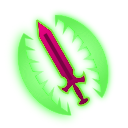
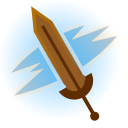
finished `Green-Flame Blade` and rebranded it as `Resonating Strike`

diff --git a/SolastaCommunityExpansion/Spells/EWSpells.cs b/SolastaCommunityExpansion/Spells/EWSpells.cs
@@ -1,4 +1,5 @@
 using System.Linq;
+using SolastaCommunityExpansion.Api.AdditionalExtensions;
 using SolastaCommunityExpansion.Builders;
 using SolastaCommunityExpansion.Builders.Features;
 using SolastaCommunityExpansion.CustomDefinitions;
@@ -140,7 +141,7 @@ namespace SolastaCommunityExpansion.Spells
                         dieType: RuleDefinitions.DieType.D8,
                         diceNumber: 0,
                         bonusDamage: 0,
-                        damageType: RuleDefinitions.DamageTypeFire
+                        damageType: RuleDefinitions.DamageTypeThunder
                     )
                     .Build()
                 )
@@ -157,7 +158,7 @@ namespace SolastaCommunityExpansion.Spells
                 .SetSomaticComponent(false)
                 .SetVerboseComponent(false)
                 .SetCustomSubFeatures(
-                    CustomSpellEffectLevel.ByCasterLevel,
+                    new BonusSlotLevelsByClassLevel(),
                     new UpgradeEffectFromLevel(flameHighLevel, 5)
                 )
                 .SetCastingTime(RuleDefinitions.ActivationTime.Action)
@@ -171,7 +172,7 @@ namespace SolastaCommunityExpansion.Spells
                             dieType: RuleDefinitions.DieType.D1,
                             diceNumber: 0,
                             bonusDamage: 0,
-                            damageType: RuleDefinitions.DamageTypeFire
+                            damageType: RuleDefinitions.DamageTypeThunder
                         )
                         .Build()
                     )
@@ -191,15 +192,15 @@ namespace SolastaCommunityExpansion.Spells
                 .SetCustomSubFeatures(
                     PerformAttackAfterMagicEffectUse.MeleeAttack,
                     CustomSpellEffectLevel.ByCasterLevel,
-                    new ChainSpell(flameLeap)
+                    new ChainSpellEffectOnAttackHit(flameLeap, "GreenFlameBlade")
                 )
                 .SetCastingTime(RuleDefinitions.ActivationTime.Action)
                 .SetEffectDescription(new EffectDescriptionBuilder()
                     .SetParticleEffectParameters(DatabaseHelper.SpellDefinitions.ScorchingRay)
                     .SetTargetingData(
                         RuleDefinitions.Side.Enemy,
-                        RuleDefinitions.RangeType.Touch,
-                        1,
+                        RuleDefinitions.RangeType.Distance,
+                        5,
                         RuleDefinitions.TargetType.IndividualsUnique,
                         2
                     )
@@ -239,7 +240,7 @@ namespace SolastaCommunityExpansion.Spells
                                         RuleDefinitions.DieType.D8,
                                         1,
                                         RuleDefinitions.AdditionalDamageType.Specific,
-                                        RuleDefinitions.DamageTypeFire,
+                                        RuleDefinitions.DamageTypeThunder,
                                         RuleDefinitions.AdditionalDamageAdvancement.SlotLevel,
                                         DiceByRankMaker.MakeBySteps(start: 0, step: 5, increment: 1)
                                     )
@@ -258,16 +259,20 @@ namespace SolastaCommunityExpansion.Spells
         }
     }
 
-    internal class ChainSpell : IChainMagicEffect
+    internal class ChainSpellEffectOnAttackHit : IChainMagicEffect
     {
-        public SpellDefinition spell;
+        private readonly SpellDefinition _spell;
+        private readonly string _notificationTag;
+        
 
-        public ChainSpell(SpellDefinition spell)
+        public ChainSpellEffectOnAttackHit(SpellDefinition spell, string notificationTag = null)
         {
-            this.spell = spell;
+            this._spell = spell;
+            this._notificationTag = notificationTag;
         }
 
-        public CharacterActionMagicEffect GetNextMagicEffect(CharacterActionMagicEffect baseEffect, CharacterActionAttack triggeredAttack)
+        public CharacterActionMagicEffect GetNextMagicEffect(CharacterActionMagicEffect baseEffect,
+            CharacterActionAttack triggeredAttack, RuleDefinitions.RollOutcome attackOutcome)
         {
             if (baseEffect == null) { return null; }
 
@@ -283,10 +288,11 @@ namespace SolastaCommunityExpansion.Spells
                 return null;
             }
 
-            var outcome = baseEffect.GetProperty<RuleDefinitions.RollOutcome>("Outcome");
-            //if (outcome < minOutcomeToAttack) { return null;}
-
-            //if (effect.SaveOutcome < minSaveOutcomeToAttack) { return null;}
+            if (attackOutcome != RuleDefinitions.RollOutcome.Success 
+                && attackOutcome == RuleDefinitions.RollOutcome.CriticalSuccess)
+            {
+                return null;
+            }
 
             var caster = actionParams.ActingCharacter;
             var targets = actionParams.TargetCharacters;
@@ -295,16 +301,40 @@ namespace SolastaCommunityExpansion.Spells
             
             var rulesetCaster = caster.RulesetCharacter;
             var rules = ServiceRepository.GetService<IRulesetImplementationService>();
-            var casterLevel = rulesetCaster.GetAttribute(AttributeDefinitions.CharacterLevel).CurrentValue;
+            var bonusLevelProvider = _spell.GetFirstSubFeatureOfType<IBonusSlotLevels>();
+            var slotLevel = _spell.SpellLevel;
+            if (bonusLevelProvider != null)
+            {
+                slotLevel += bonusLevelProvider.GetBonusSlotLevels(rulesetCaster);
+            }
 
-            var effectSpell = rules.InstantiateEffectSpell(rulesetCaster, repertoire, spell, casterLevel + 1, false);
+            var effectSpell = rules.InstantiateEffectSpell(rulesetCaster, repertoire, _spell, slotLevel, false);
 
             for (int i = 1; i < targets.Count; i++)
             {
-                effectSpell.ApplyEffectOnCharacter(targets[i].RulesetCharacter, true, targets[i].LocationPosition);
+                var rulesetTarget = targets[i].RulesetCharacter;
+                if (!string.IsNullOrEmpty(_notificationTag))
+                {
+                    GameConsoleHelper.LogCharacterAffectsTarget(rulesetCaster, rulesetTarget, _notificationTag, true);
+                }
+
+                effectSpell.ApplyEffectOnCharacter(rulesetTarget, true, targets[i].LocationPosition);
             }
 
             return null;
+        }
+    }
+
+    interface IBonusSlotLevels
+    {
+        public int GetBonusSlotLevels(RulesetCharacter caster);
+    }
+
+    class BonusSlotLevelsByClassLevel: IBonusSlotLevels
+    {
+        public int GetBonusSlotLevels(RulesetCharacter caster)
+        {
+            return caster.GetAttribute(AttributeDefinitions.CharacterLevel).CurrentValue;
         }
     }
 }

diff --git a/SolastaCommunityExpansion/Patches/CustomFeatures/CustomSpells/CharacterActionMagicEffectPatcher.cs b/SolastaCommunityExpansion/Patches/CustomFeatures/CustomSpells/CharacterActionMagicEffectPatcher.cs
@@ -38,25 +38,39 @@ namespace SolastaCommunityExpansion.Patches.CustomFeatures.CustomSpells
                 var customFeature = definition.GetFirstSubFeatureOfType<IPerformAttackAfterMagicEffectUse>();
                 var getAttackAfterUse = customFeature?.PerformAttackAfterUse;
 
-                CharacterActionAttack attackAction = null; //can be useful in chained spell effects
+                CharacterActionAttack attackAction = null;
+                RuleDefinitions.RollOutcome attackOutcome = RuleDefinitions.RollOutcome.Neutral;
 
                 if (getAttackAfterUse != null)
                 {
                     var attackParams = getAttackAfterUse(__instance);
                     if (attackParams != null)
                     {
+                        void AttackImpactStartHandler(
+                            GameLocationCharacter attacker,
+                            GameLocationCharacter defender,
+                            RuleDefinitions.RollOutcome outcome,
+                            CharacterActionParams actionParams,
+                            RulesetAttackMode attackMode,
+                            ActionModifier attackModifier)
+                        {
+                            attackOutcome = outcome;
+                        }
+
+                        attackParams.ActingCharacter.AttackImpactStart += AttackImpactStartHandler;
                         attackAction = new CharacterActionAttack(attackParams);
                         var enums = attackAction.Execute();
                         while (enums.MoveNext())
                         {
                             yield return enums.Current;
                         }
+                        attackParams.ActingCharacter.AttackImpactStart -= AttackImpactStartHandler;
                     }
                 }
 
                 //chained effects would be useful for EOrb
                 var chainAction = definition.GetFirstSubFeatureOfType<IChainMagicEffect>()
-                    ?.GetNextMagicEffect(__instance, attackAction);
+                    ?.GetNextMagicEffect(__instance, attackAction, attackOutcome);
                 
                 if (chainAction != null)
                 {

diff --git a/SolastaCommunityExpansion/CustomDefinitions/PerformAttackAfterMagicEffectUse.cs b/SolastaCommunityExpansion/CustomDefinitions/PerformAttackAfterMagicEffectUse.cs
@@ -1,5 +1,4 @@
-using System.Collections.Generic;
-using System.Linq;
+using System.Linq;
 using SolastaModApi.Infrastructure;
 using static SolastaCommunityExpansion.CustomDefinitions.IPerformAttackAfterMagicEffectUse;
 
@@ -9,7 +8,7 @@ namespace SolastaCommunityExpansion.CustomDefinitions
     {
         delegate CharacterActionParams GetAttackAfterUseHandler(CharacterActionMagicEffect actionMagicEffect);
 
-        delegate bool CanUseHandler(GameLocationCharacter caster, GameLocationCharacter target);
+        delegate bool CanUseHandler(CursorLocationSelectTarget targeting, GameLocationCharacter caster, GameLocationCharacter target);
 
         CanUseHandler CanBeUsedToAttack { get; set; }
         GetAttackAfterUseHandler PerformAttackAfterUse { get; set; }
@@ -86,12 +85,21 @@ namespace SolastaCommunityExpansion.CustomDefinitions
             return null;
         }
 
-        private bool DefaultCanUseHandler(GameLocationCharacter caster, GameLocationCharacter target)
+        private bool DefaultCanUseHandler(CursorLocationSelectTarget targeting, GameLocationCharacter caster, GameLocationCharacter target)
         {
             var attackMode = caster.FindActionAttackMode(ActionDefinitions.Id.AttackMain);
             if (attackMode == null)
             {
                 return false;
+            }
+
+            //TODO: implement setting to tell how many targets must meet weapon attack requirements
+            var maxTargets = targeting.GetField<int>("maxTargets");
+            var remainingTargets = targeting.GetField<int>("remainingTargets");
+            var selectedTargets = maxTargets - remainingTargets;
+            if (selectedTargets > 0)
+            {
+                return true;
             }
 
             var battleService = ServiceRepository.GetService<IGameLocationBattleService>();

diff --git a/SolastaCommunityExpansion/Utils/GameConsoleHelper.cs b/SolastaCommunityExpansion/Utils/GameConsoleHelper.cs
@@ -21,5 +21,19 @@ namespace SolastaCommunityExpansion.Utils
             entry.AddParameter(ConsoleStyleDuplet.ParameterType.AttackSpellPower, abilityName);
             console.AddEntry(entry);
         }
+        
+        public static void LogCharacterAffectsTarget(RulesetCharacter character, RulesetCharacter target, string notificationTag, bool indent = false)
+        {
+            var console = Gui.Game.GameConsole;
+            var text = $"Feedback/&NotifyEffect{notificationTag}Line";
+            var entry = new GameConsoleEntry(text, console.GetField<ConsoleTableDefinition>("consoleTableDefinition"))
+            {
+                Indent = indent
+            };
+
+            console.InvokeMethod("AddCharacterEntry", character, entry);
+            console.InvokeMethod("AddCharacterEntry",target, entry);
+            console.AddEntry(entry);
+        }
     }
 }

diff --git a/SolastaCommunityExpansion/Patches/CustomFeatures/CustomSpells/CursorLocationSelectTargetPatcher.cs b/SolastaCommunityExpansion/Patches/CustomFeatures/CustomSpells/CursorLocationSelectTargetPatcher.cs
@@ -25,7 +25,7 @@ namespace SolastaCommunityExpansion.Patches.CustomFeatures.CustomSpells
                 var canBeUsedToAttack = actionParams?.RulesetEffect
                     ?.SourceDefinition.GetFirstSubFeatureOfType<IPerformAttackAfterMagicEffectUse>()?.CanBeUsedToAttack;
                 if (canBeUsedToAttack != null &&
-                    !canBeUsedToAttack(actionParams.GetField<GameLocationCharacter>("actingCharacter"), target))
+                    !canBeUsedToAttack(__instance, actionParams.GetField<GameLocationCharacter>("actingCharacter"), target))
                 {
                     __result = false;
                     __instance.GetField<ActionModifier>("actionModifier").FailureFlags

diff --git a/SolastaCommunityExpansion/CustomDefinitions/ChainMagicEffect.cs b/SolastaCommunityExpansion/CustomDefinitions/ChainMagicEffect.cs
@@ -2,6 +2,7 @@
 {
     public interface IChainMagicEffect
     {
-        public CharacterActionMagicEffect GetNextMagicEffect(CharacterActionMagicEffect baseEffect, CharacterActionAttack triggeredAttack);
+        public CharacterActionMagicEffect GetNextMagicEffect(CharacterActionMagicEffect baseEffect,
+            CharacterActionAttack triggeredAttack, RuleDefinitions.RollOutcome attackOutcome);
     }
 }
